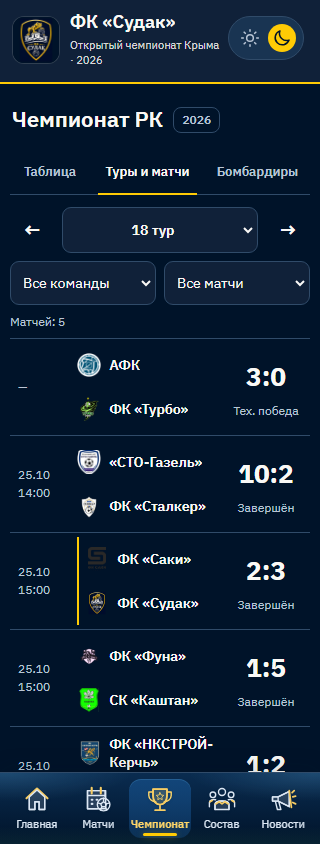
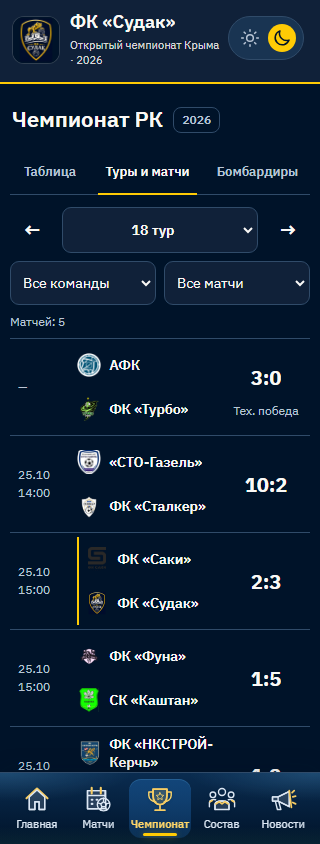
Finalize approved match row composition

diff --git a/index.html b/index.html
@@ -614,12 +614,13 @@ body:has(#team.on)>header:before,body[data-club-profile="true"]>header:before{co
 #team .football-source-list li,.universal-player .football-source-list li{padding:8px 0;border-top:1px solid var(--line)}
 #team .football-source-list p,.universal-player .football-source-list p{margin:4px 0;color:var(--mute);font-size:12px;line-height:1.5}
 #team .football-match-list,.universal-player .football-match-list{border-top:1px solid var(--line)}
-#team .club-fixture{display:grid;grid-template-columns:3.5em minmax(0,1fr) auto;gap:8px;align-items:center;padding:4px 0;border-bottom:1px solid var(--line);position:relative;min-width:0}
-#team .club-match-meta{font-size:12px;margin:0;display:grid;gap:2px;line-height:1.4;overflow-wrap:normal}
+#team .football-match-list{container-type:inline-size}
+#team .club-fixture{display:grid;grid-template-columns:3.5em minmax(0,1fr) auto;gap:8px;align-items:center;padding:6px 0;border-bottom:1px solid var(--line);position:relative;min-width:0}
+#team .club-match-meta{font-size:13px;margin:0;display:grid;gap:2px;line-height:1.4;overflow-wrap:normal}
 #team .club-match-meta span{display:block}
-#team .club-match-meta .club-short-status{font-size:11px}
+#team .club-match-meta .club-short-status{font-size:12px}
 #team .club-match-pair{display:flex;flex-direction:column;gap:0;align-items:stretch;min-width:0}
-#team .club-match-pair .club-link,#team .club-match-pair .club-link:last-child{font-size:13px;line-height:1.35;min-height:44px;min-width:44px;text-align:left;justify-content:flex-start}
+#team .club-match-pair .club-link,#team .club-match-pair .club-link:last-child{font-size:15px;line-height:1.35;min-height:48px;min-width:44px;text-align:left;justify-content:flex-start}
 #team .club-match-pair .champ-badge{width:24px;height:24px}
 #team .club-match-status{grid-column:1/-1;color:var(--mute);font-size:12px;line-height:1.3;overflow-wrap:normal}
 #team .club-fixture .champ-badge img,#table .champ-match .champ-badge img{background:transparent}
@@ -629,6 +630,15 @@ body:has(#team.on)>header:before,body[data-club-profile="true"]>header:before{co
 #team .club-match-pair .club-link{position:relative;z-index:1}
 #team .club-fixture:focus-within{outline:2px solid var(--sea);outline-offset:2px}
 #team .club-score>span,.universal-player .player-confirmed-match>span:last-child{font-size:16px;color:var(--mute)}
+@container (max-width:18em){
+  #team .club-fixture{grid-template-columns:minmax(0,1fr) max-content;gap:4px 8px;padding-block:8px}
+  #team .club-match-meta{grid-column:1/-1;grid-row:1;display:flex;flex-wrap:wrap;align-items:baseline;gap:4px 8px}
+  #team .club-match-meta>span:first-child{display:flex;flex-wrap:wrap;gap:4px 8px}
+  #team .club-match-pair{grid-column:1;grid-row:2}
+  #team .club-match-pair .club-link{overflow-wrap:normal;word-break:normal}
+  #team .club-score{grid-column:2;grid-row:2;align-self:center}
+  #team .club-match-status{grid-column:1/-1;grid-row:3}
+}
 .football-count{color:var(--mute);font-size:12px;font-weight:500;margin-left:4px}
 #team .club-roster-role{display:flex;align-items:baseline;justify-content:space-between;gap:8px;font-size:13px;color:var(--mute);margin:16px 0 4px}
 #team .club-roster-role span{font-size:12px;font-weight:500}
@@ -712,15 +722,19 @@ body:has(#team.on)>header:before,body[data-club-profile="true"]>header:before{co
 #table .champ-status{display:block;max-width:100%;font-size:12px;line-height:1.35;margin-top:4px;overflow-wrap:normal;word-break:normal}
 #table .champ-status-full{grid-column:1/-1;max-width:none;margin:0}
 @container (max-width:18em){
-  #table div.champ-match,#table .champ-match>summary{grid-template-columns:3.2em minmax(0,1fr) 3em}
+  #table div.champ-match,#table .champ-match>summary{grid-template-columns:minmax(0,1fr) max-content;gap:4px 8px;padding-block:8px}
+  #table .champ-date{grid-column:1;grid-row:1;display:flex;flex-wrap:wrap;gap:4px 8px}
   #table .champ-result{display:contents}
-  #table .champ-teams{grid-column:2/-1;grid-row:1}
-  #table .champ-result .champ-open,#table .champ-result>.champ-score{grid-column:3;grid-row:2;justify-self:center}
-  #table .champ-status{grid-column:1/3;grid-row:2;max-width:none;margin:0;text-align:left}
+  #table .champ-teams{grid-column:1;grid-row:2}
+  #table .champ-team{overflow-wrap:normal;word-break:normal}
+  #table .champ-result .champ-open,#table .champ-result>.champ-score{grid-column:2;grid-row:2;justify-self:center;align-self:center}
+  #table .champ-score{font-size:20px}
+  #table .champ-status{grid-column:2;grid-row:1;max-width:7em;margin:0;text-align:right}
+  #table .champ-status-full{grid-column:1/-1;grid-row:3;text-align:left;max-width:none}
 }
 #table .champ-match.champ-club{border-color:var(--line);background:none}
 #table .champ-club .champ-teams{border-left:2px solid var(--sun);padding-left:6px}
-@media(max-width:350px){#table .champ-tabs{grid-template-columns:.8fr 1.15fr 1.05fr}#table .champ-tabs button{padding-inline:0}}
+@media(max-width:350px){#table .champ-tabs{grid-template-columns:.8fr 1.15fr 1.05fr}#table .champ-tabs button{padding-inline:0}#table .champ-score{font-size:20px}}
 
 /* Stage 6: opt-in universal centers; legacy Sudak markup keeps its styles. */
 #match:has(.match-polish) #match-title{margin:12px 0;font-size:20px}
@@ -1976,9 +1990,10 @@ function champMatchHTML(m){
   const confirmed=PLATFORM?.matchesById?.[m.id];
   const key=clubKey||(confirmed?platformMatchKey(confirmed):null);
   const status=compactMatchStatus(m);
+  const showStatus=!(m.status==='finished'&&['Матч завершён','Завершён','Матч завершен','Завершен'].includes(champStatus(m)));
   const teams=`<span class="champ-teams">${[m.home_id,m.away_id].map(id=>`<span class="champ-team">${platformTeam(id)?clubLink(id,champTeamName(id),true):champBadge(id)+'<b>'+esc(champTeamName(id))+'</b>'}</span>`).join('')}</span>`;
   const label=`${champTeamName(m.home_id)} — ${champTeamName(m.away_id)}, ${score}, ${champStatus(m)}. Центр матча`;
-  const card=`<span class="champ-date champ-meta" aria-label="${esc(champDate(m))}">${matchDateHTML(m)}</span>${teams}<span class="champ-result">${key?`<a class="champ-open" data-match="${esc(key)}" href="#match=${encodeURIComponent(key)}&amp;from=table" aria-label="${esc(label)}"><strong class="champ-score">${score}</strong></a>`:`<strong class="champ-score">${score}</strong>`}${status.compact?`<span class="champ-meta champ-status" aria-label="${esc(champStatus(m))}">${esc(status.text)}</span>`:''}</span>${!status.compact?`<span class="champ-meta champ-status champ-status-full">${esc(status.text)}</span>`:''}`;
+  const card=`<span class="champ-date champ-meta" aria-label="${esc(champDate(m))}">${matchDateHTML(m)}</span>${teams}<span class="champ-result">${key?`<a class="champ-open" data-match="${esc(key)}" href="#match=${encodeURIComponent(key)}&amp;from=table" aria-label="${esc(label)}"><strong class="champ-score">${score}</strong></a>`:`<strong class="champ-score">${score}</strong>`}${showStatus&&status.compact?`<span class="champ-meta champ-status" aria-label="${esc(champStatus(m))}">${esc(status.text)}</span>`:''}</span>${showStatus&&!status.compact?`<span class="champ-meta champ-status champ-status-full">${esc(status.text)}</span>`:''}`;
   if(key)return `<div class="champ-match ${isClub?'champ-club':''}" data-champ-match="${esc(m.id)}">${card}</div>`;
   const url=protocolLink(m.source_url);
   return `<details class="card champ-match ${isClub?'champ-club':''}" data-champ-match="${esc(m.id)}"><summary>${card}</summary><div class="champ-match-info"><p>${esc(champTeamName(m.home_id))} — ${esc(champTeamName(m.away_id))}</p><p>${esc(champStatus(m))}</p><p>${esc(m.venue||'Стадион не указан')}</p><p class="hint">${champPlayed(m)?'Доступные сведения РФФК.':'Результат пока не опубликован.'}</p>${url?`<a class="champ-source" href="${esc(url)}" target="_blank" rel="noopener noreferrer">Протокол РФФК ↗</a>`:'<p class="hint">Ссылка на протокол пока не опубликована.</p>'}</div></details>`;

diff --git a/tests/fixtures/match-row-reference.html b/tests/fixtures/match-row-reference.html
@@ -614,12 +614,13 @@ body:has(#team.on)>header:before,body[data-club-profile="true"]>header:before{co
 #team .football-source-list li,.universal-player .football-source-list li{padding:8px 0;border-top:1px solid var(--line)}
 #team .football-source-list p,.universal-player .football-source-list p{margin:4px 0;color:var(--mute);font-size:12px;line-height:1.5}
 #team .football-match-list,.universal-player .football-match-list{border-top:1px solid var(--line)}
-#team .club-fixture{display:grid;grid-template-columns:3.5em minmax(0,1fr) auto;gap:8px;align-items:center;padding:4px 0;border-bottom:1px solid var(--line);position:relative;min-width:0}
-#team .club-match-meta{font-size:12px;margin:0;display:grid;gap:2px;line-height:1.4;overflow-wrap:normal}
+#team .football-match-list{container-type:inline-size}
+#team .club-fixture{display:grid;grid-template-columns:3.5em minmax(0,1fr) auto;gap:8px;align-items:center;padding:6px 0;border-bottom:1px solid var(--line);position:relative;min-width:0}
+#team .club-match-meta{font-size:13px;margin:0;display:grid;gap:2px;line-height:1.4;overflow-wrap:normal}
 #team .club-match-meta span{display:block}
-#team .club-match-meta .club-short-status{font-size:11px}
+#team .club-match-meta .club-short-status{font-size:12px}
 #team .club-match-pair{display:flex;flex-direction:column;gap:0;align-items:stretch;min-width:0}
-#team .club-match-pair .club-link,#team .club-match-pair .club-link:last-child{font-size:13px;line-height:1.35;min-height:44px;min-width:44px;text-align:left;justify-content:flex-start}
+#team .club-match-pair .club-link,#team .club-match-pair .club-link:last-child{font-size:15px;line-height:1.35;min-height:48px;min-width:44px;text-align:left;justify-content:flex-start}
 #team .club-match-pair .champ-badge{width:24px;height:24px}
 #team .club-match-status{grid-column:1/-1;color:var(--mute);font-size:12px;line-height:1.3;overflow-wrap:normal}
 #team .club-fixture .champ-badge img,#table .champ-match .champ-badge img{background:transparent}
@@ -629,6 +630,15 @@ body:has(#team.on)>header:before,body[data-club-profile="true"]>header:before{co
 #team .club-match-pair .club-link{position:relative;z-index:1}
 #team .club-fixture:focus-within{outline:2px solid var(--sea);outline-offset:2px}
 #team .club-score>span,.universal-player .player-confirmed-match>span:last-child{font-size:16px;color:var(--mute)}
+@container (max-width:18em){
+  #team .club-fixture{grid-template-columns:minmax(0,1fr) max-content;gap:4px 8px;padding-block:8px}
+  #team .club-match-meta{grid-column:1/-1;grid-row:1;display:flex;flex-wrap:wrap;align-items:baseline;gap:4px 8px}
+  #team .club-match-meta>span:first-child{display:flex;flex-wrap:wrap;gap:4px 8px}
+  #team .club-match-pair{grid-column:1;grid-row:2}
+  #team .club-match-pair .club-link{overflow-wrap:normal;word-break:normal}
+  #team .club-score{grid-column:2;grid-row:2;align-self:center}
+  #team .club-match-status{grid-column:1/-1;grid-row:3}
+}
 .football-count{color:var(--mute);font-size:12px;font-weight:500;margin-left:4px}
 #team .club-roster-role{display:flex;align-items:baseline;justify-content:space-between;gap:8px;font-size:13px;color:var(--mute);margin:16px 0 4px}
 #team .club-roster-role span{font-size:12px;font-weight:500}
@@ -712,15 +722,19 @@ body:has(#team.on)>header:before,body[data-club-profile="true"]>header:before{co
 #table .champ-status{display:block;max-width:100%;font-size:12px;line-height:1.35;margin-top:4px;overflow-wrap:normal;word-break:normal}
 #table .champ-status-full{grid-column:1/-1;max-width:none;margin:0}
 @container (max-width:18em){
-  #table div.champ-match,#table .champ-match>summary{grid-template-columns:3.2em minmax(0,1fr) 3em}
+  #table div.champ-match,#table .champ-match>summary{grid-template-columns:minmax(0,1fr) max-content;gap:4px 8px;padding-block:8px}
+  #table .champ-date{grid-column:1;grid-row:1;display:flex;flex-wrap:wrap;gap:4px 8px}
   #table .champ-result{display:contents}
-  #table .champ-teams{grid-column:2/-1;grid-row:1}
-  #table .champ-result .champ-open,#table .champ-result>.champ-score{grid-column:3;grid-row:2;justify-self:center}
-  #table .champ-status{grid-column:1/3;grid-row:2;max-width:none;margin:0;text-align:left}
+  #table .champ-teams{grid-column:1;grid-row:2}
+  #table .champ-team{overflow-wrap:normal;word-break:normal}
+  #table .champ-result .champ-open,#table .champ-result>.champ-score{grid-column:2;grid-row:2;justify-self:center;align-self:center}
+  #table .champ-score{font-size:20px}
+  #table .champ-status{grid-column:2;grid-row:1;max-width:7em;margin:0;text-align:right}
+  #table .champ-status-full{grid-column:1/-1;grid-row:3;text-align:left;max-width:none}
 }
 #table .champ-match.champ-club{border-color:var(--line);background:none}
 #table .champ-club .champ-teams{border-left:2px solid var(--sun);padding-left:6px}
-@media(max-width:350px){#table .champ-tabs{grid-template-columns:.8fr 1.15fr 1.05fr}#table .champ-tabs button{padding-inline:0}}
+@media(max-width:350px){#table .champ-tabs{grid-template-columns:.8fr 1.15fr 1.05fr}#table .champ-tabs button{padding-inline:0}#table .champ-score{font-size:20px}}
 
 /* Stage 6: opt-in universal centers; legacy Sudak markup keeps its styles. */
 #match:has(.match-polish) #match-title{margin:12px 0;font-size:20px}
@@ -1976,9 +1990,10 @@ function champMatchHTML(m){
   const confirmed=PLATFORM?.matchesById?.[m.id];
   const key=clubKey||(confirmed?platformMatchKey(confirmed):null);
   const status=compactMatchStatus(m);
+  const showStatus=!(m.status==='finished'&&['Матч завершён','Завершён','Матч завершен','Завершен'].includes(champStatus(m)));
   const teams=`<span class="champ-teams">${[m.home_id,m.away_id].map(id=>`<span class="champ-team">${platformTeam(id)?clubLink(id,champTeamName(id),true):champBadge(id)+'<b>'+esc(champTeamName(id))+'</b>'}</span>`).join('')}</span>`;
   const label=`${champTeamName(m.home_id)} — ${champTeamName(m.away_id)}, ${score}, ${champStatus(m)}. Центр матча`;
-  const card=`<span class="champ-date champ-meta" aria-label="${esc(champDate(m))}">${matchDateHTML(m)}</span>${teams}<span class="champ-result">${key?`<a class="champ-open" data-match="${esc(key)}" href="#match=${encodeURIComponent(key)}&amp;from=table" aria-label="${esc(label)}"><strong class="champ-score">${score}</strong></a>`:`<strong class="champ-score">${score}</strong>`}${status.compact?`<span class="champ-meta champ-status" aria-label="${esc(champStatus(m))}">${esc(status.text)}</span>`:''}</span>${!status.compact?`<span class="champ-meta champ-status champ-status-full">${esc(status.text)}</span>`:''}`;
+  const card=`<span class="champ-date champ-meta" aria-label="${esc(champDate(m))}">${matchDateHTML(m)}</span>${teams}<span class="champ-result">${key?`<a class="champ-open" data-match="${esc(key)}" href="#match=${encodeURIComponent(key)}&amp;from=table" aria-label="${esc(label)}"><strong class="champ-score">${score}</strong></a>`:`<strong class="champ-score">${score}</strong>`}${showStatus&&status.compact?`<span class="champ-meta champ-status" aria-label="${esc(champStatus(m))}">${esc(status.text)}</span>`:''}</span>${showStatus&&!status.compact?`<span class="champ-meta champ-status champ-status-full">${esc(status.text)}</span>`:''}`;
   if(key)return `<div class="champ-match ${isClub?'champ-club':''}" data-champ-match="${esc(m.id)}">${card}</div>`;
   const url=protocolLink(m.source_url);
   return `<details class="card champ-match ${isClub?'champ-club':''}" data-champ-match="${esc(m.id)}"><summary>${card}</summary><div class="champ-match-info"><p>${esc(champTeamName(m.home_id))} — ${esc(champTeamName(m.away_id))}</p><p>${esc(champStatus(m))}</p><p>${esc(m.venue||'Стадион не указан')}</p><p class="hint">${champPlayed(m)?'Доступные сведения РФФК.':'Результат пока не опубликован.'}</p>${url?`<a class="champ-source" href="${esc(url)}" target="_blank" rel="noopener noreferrer">Протокол РФФК ↗</a>`:'<p class="hint">Ссылка на протокол пока не опубликована.</p>'}</div></details>`;

diff --git a/championship.css b/championship.css
@@ -79,12 +79,16 @@
 #table .champ-status{display:block;max-width:100%;font-size:12px;line-height:1.35;margin-top:4px;overflow-wrap:normal;word-break:normal}
 #table .champ-status-full{grid-column:1/-1;max-width:none;margin:0}
 @container (max-width:18em){
-  #table div.champ-match,#table .champ-match>summary{grid-template-columns:3.2em minmax(0,1fr) 3em}
+  #table div.champ-match,#table .champ-match>summary{grid-template-columns:minmax(0,1fr) max-content;gap:4px 8px;padding-block:8px}
+  #table .champ-date{grid-column:1;grid-row:1;display:flex;flex-wrap:wrap;gap:4px 8px}
   #table .champ-result{display:contents}
-  #table .champ-teams{grid-column:2/-1;grid-row:1}
-  #table .champ-result .champ-open,#table .champ-result>.champ-score{grid-column:3;grid-row:2;justify-self:center}
-  #table .champ-status{grid-column:1/3;grid-row:2;max-width:none;margin:0;text-align:left}
+  #table .champ-teams{grid-column:1;grid-row:2}
+  #table .champ-team{overflow-wrap:normal;word-break:normal}
+  #table .champ-result .champ-open,#table .champ-result>.champ-score{grid-column:2;grid-row:2;justify-self:center;align-self:center}
+  #table .champ-score{font-size:20px}
+  #table .champ-status{grid-column:2;grid-row:1;max-width:7em;margin:0;text-align:right}
+  #table .champ-status-full{grid-column:1/-1;grid-row:3;text-align:left;max-width:none}
 }
 #table .champ-match.champ-club{border-color:var(--line);background:none}
 #table .champ-club .champ-teams{border-left:2px solid var(--sun);padding-left:6px}
-@media(max-width:350px){#table .champ-tabs{grid-template-columns:.8fr 1.15fr 1.05fr}#table .champ-tabs button{padding-inline:0}}
+@media(max-width:350px){#table .champ-tabs{grid-template-columns:.8fr 1.15fr 1.05fr}#table .champ-tabs button{padding-inline:0}#table .champ-score{font-size:20px}}

diff --git a/docs/design-polish/match-row-final.md b/docs/design-polish/match-row-final.md
@@ -2,15 +2,17 @@
 
 База — `ff8f520102be75717f8b654385bbaae12f3a9954`, merge PR #36. Его проверки `typography`, `publish`, `offline-diagnostics` и `check` завершились успешно.
 
-В календаре и клубных списках дата показана в формате `дд.мм`, время — отдельно и только при наличии в данных. Отсутствие даты обозначено прочерком с доступным пояснением; полная дата с годом остаётся в доступной подписи. Для известных статусов используются короткие подписи, полное значение остаётся в названии ссылки на матч или в подробностях. Неизвестные подписи выводятся полностью на отдельной строке. При увеличенном тексте сетка календаря отдаёт дополнительное место командам и переносит статус ниже. Высота строк не фиксируется; ссылки клубов и переход по строке сохранены.
+В календаре и клубных списках дата показана в формате `дд.мм`, время — отдельно и только при наличии в данных. Отсутствие даты обозначено прочерком с доступным пояснением; полная дата с годом остаётся в доступной подписи. Для известных статусов используются короткие подписи, полное значение остаётся в названии ссылки на матч или в подробностях. Обычный «Завершён» больше не повторяется возле итогового счёта; технические результаты, переносы, отмены и будущие игры сохраняют видимые статусы. На узком экране с увеличенным текстом дата и время стоят над командами, а счёт — справа по центру их общего блока. На 320 px при 150% счёт равен 30 CSS px. Высота строк не фиксируется; ссылки клубов и переход по строке сохранены.
 
 Причина переносов — `overflow-wrap:anywhere` в узких колонках статуса и даты; клубная строка дополнительно объединяла полную дату, время и статус. Эмблемы клубов — PNG с альфа-каналом, `object-fit:contain`; в матчевых строках квадрат создавался фоном `var(--card)` на самом изображении. Этот фон убран локально, инициалы скрываются только пока изображение присутствует. Оригинальные файлы и цвета не редактировались; в отдельных исходных эмблемах могут быть непрозрачные или полупрозрачные пиксели за пределами основного рисунка.
 
-В Chromium при 844 px высоты и обычном тексте семь строк «Каштана» на контрольной позиции: **101 → 97 CSS px** на каждой из четырёх ширин. Пять строк 18-го тура календаря: **97/97/97/97/96 → 97/97/97/97/96 px**. Высота для длинных названий, иных статусов и увеличенного текста может быть больше. Значения и условия сохранены в [измерениях до](match-row-final/before/metrics.json) и [после](match-row-final/after/metrics.json).
+В Chromium при 844 px высоты и обычном тексте семь строк «Каштана» на контрольной позиции: **101 → 109 CSS px** на каждой из четырёх ширин. Названия увеличены с 13 до 15 px, даты — с 12 до 13 px; дополнительная высота отдана читаемости. Пять строк 18-го тура календаря сохраняют **97/97/97/97/96 px**. На 320/150% обычные строки календаря занимают около 134 px; счёт расположен рядом с командами, без прежнего отдельного нижнего ряда. Для длинных названий строка растёт. Значения и условия сохранены в [измерениях до](match-row-final/before/metrics.json) и [после](match-row-final/after/metrics.json).
 
 Снимки календаря и клубных результатов сняты на 320, 390, 768 и 1440 px в светлой и тёмной темах: [до](match-row-final/before/) · [после](match-row-final/after/). Пример 320 px: календарь [до](match-row-final/before/calendar-light-320.png) / [после](match-row-final/after/calendar-light-320.png), Каштан [до](match-row-final/before/kashtan-dark-320.png) / [после](match-row-final/after/kashtan-dark-320.png), [календарь при 150% после дополнительного исправления](match-row-final/contract-150-light-320.png). Сценарий съёмки: `MATCH_ROW_PHASE=before|after node tests/match-row-final.browser.cjs`; исходный HTML берётся из локального `main`.
 
 Проверки:
+
+Одобренные снимки окна приложения с нижней навигацией: [320/150%, светлый календарь](match-row-final/approved/calendar-light-320-text150.png), [390/100%, тёмный календарь](match-row-final/approved/calendar-dark-390-text100.png), [390/100%, Каштан](match-row-final/approved/kashtan-light-390-text100.png). Они заменяют отклонённую композицию, где счёт и статус располагались снизу по разным сторонам. Дата теперь образует компактную метастроку, счёт остаётся связан с командами, а обычный результат не дублируется словом «Завершён».
 
 - Python: 136/136; Node: 104/104.
 - `design-polish.browser.cjs`: обе темы, четыре ширины, фильтры, технические и перенесённые матчи, отсутствие даты и эмблем, 150% текста на 320 px. Повторный сценарий `match-row-final.browser.cjs` проверяет клубные маршруты, области нажатия, дату без времени и время без даты, отмену, перенос и неизвестный статус.
@@ -19,8 +21,12 @@
 - `match-center.browser.cjs` и `universal-matches.browser.cjs`: 16 прежних протоколов, 100 известных центров, ссылки и история; реальный Service Worker и холодное офлайн-открытие проверены также `typography-offline.browser.cjs`.
 - В Linux CI офлайн-перезагрузка `championship.browser.cjs` однажды превысила 30 секунд после прежнего асинхронного ожидания кэша. Тест переведён на существующий `pwa-offline.cjs`: ожидание активного контроллера и полного кэша, физическое отключение локального сервера и проверка ответа от Service Worker. Порог времени и проверки приложения не ослаблены; причина известной особенности Playwright описана в [расследовании](../typography-refresh/sw-offline-investigation.md).
 - `design-preservation.browser.cjs`: полное сравнение DOM, геометрии и растра главной, старого профиля, двух универсальных и 16 старых центров сохранено с прежними порогами. Календарь сравнивается с исходным `main` после удаления только содержимого `.champ-match-list` в обеих копиях: сам контейнер, его границы, шапка, навигация, вкладки, фильтры, заголовки и элементы после списка остаются в сравнении. Изменённое значение `container-type` проверяется явно. Маски изображений и новые допуски не используются.
+
+Для запуска после объединения на `main` ожидаемый `container-type` исходной копии определяется по её CSS: он уже будет `inline-size`. В PR исходная версия по-прежнему проверяется как `normal`. Полные DOM/PNG-сравнения и пороги остаются одинаковыми в обоих случаях.
 - `match-row-contract.browser.cjs`: отдельное сравнение настоящего растра туров 2, 18 и 19 (перенос, сыгранные и предстоящие матчи) и результатов Каштана с зафиксированным HTML-образцом в том же Chromium. Проверяет реальные ID, команды, счёт, даты, время, видимые и полные статусы, локальные эмблемы, геометрию, переносы слов, обрезку и области нажатия; отдельно проверяет искусственные случаи без даты/времени, отмену, перенос, неизвестный статус и отказ эмблем. Матрица — четыре ширины, обе темы и 100%/150% текста. Снимки теста сохраняются в артефакт CI `match-row-contract`.
 
[2 lines of base64/hex data omitted]
+
+Независимый контракт теперь требует центрирования счёта относительно двух команд, ровно 30 px на 320/150%, отсутствия отдельного обычного статуса, сохранения полной подписи и видимости особых статусов. Для клуба дополнительно проверяется минимум 15 px у названий и 13 px у дат (с увеличением при 150%). Существующие проверки данных, слов, обрезки, наложений, областей нажатия и растровые пороги сохранены. Для изолированного снимка списка нижняя навигация временно скрывается только в сценарии снимка; сама навигация полностью сравнивается с `main` в `design-preservation`. Снимки одобренных экранов выше содержат настоящую нижнюю навигацию.
 
 `data.json`, парсеры, эмблемы, маршруты, центры матчей, PWA и Service Worker не изменялись. Результаты, статусы и даты в данных не менялись. Проверка выполнена локально в Chromium/Windows; Safari/iOS и установленный Android PWA отдельно не проверялись. Внешние эмблемы РФФК в воспроизводимых браузерных сценариях недоступны намеренно; проверена подстановка инициалов и локальные клубные PNG.
